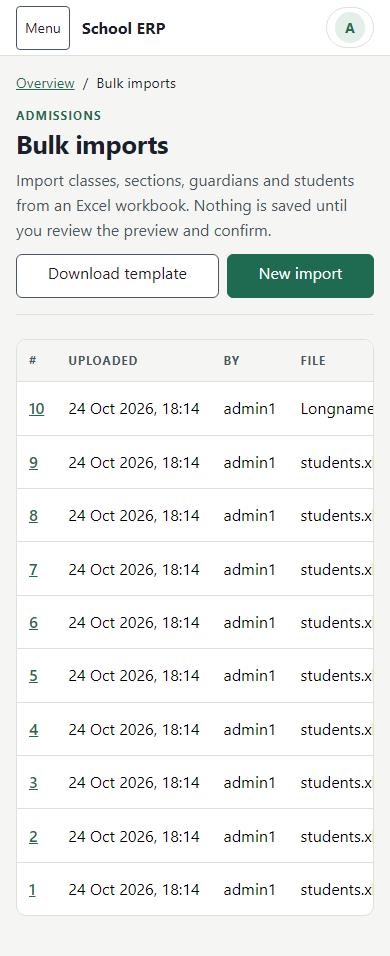
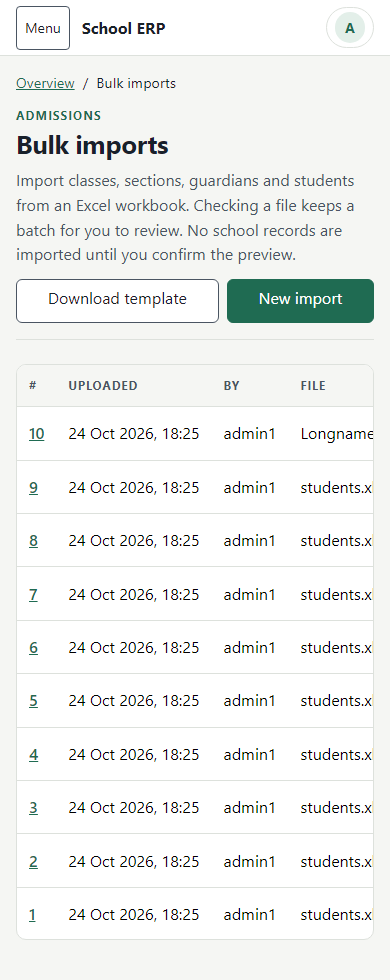
fix(ui): D1-6E accurate upload explanations; record L11
Review correction: the list and upload pages no longer say nothing is saved on upload. Checking a file
keeps an import batch for review; no Student, Guardian, Class or Section records are imported until
confirmation, and a rejected upload imports nothing. Tests assert the wording and its truth. Records the
pre-existing run_import / view_importbatch mismatch as ledger item L11.

diff --git a/core/templates/core/import_upload.html b/core/templates/core/import_upload.html
@@ -1,14 +1,14 @@
 {% extends "base.html" %}
 {% block title %}New import{% endblock %}
 {% block content %}
-{% include "partials/_page_header.html" with eyebrow="Bulk imports" title="New import" purpose="Check an Excel workbook first. Nothing is saved until you review the preview and confirm." only %}
+{% include "partials/_page_header.html" with eyebrow="Bulk imports" title="New import" purpose="Check an Excel workbook first. The check keeps a batch for you to review; no Student, Guardian, Class or Section records are imported until you confirm." only %}
 <form method="post" enctype="multipart/form-data" class="erp-form">
     {% csrf_token %}
-    <p class="erp-note-text">Use the <a href="{% url 'core:import-template' %}">import template</a>. The file is checked first and nothing is saved until you confirm the preview.</p>
+    <p class="erp-note-text">Use the <a href="{% url 'core:import-template' %}">import template</a>. Checking the file creates an import batch for you to review. No Student, Guardian, Class or Section records are imported until you confirm the preview.</p>
     {% include "partials/_form_required_legend.html" %}
     {% include "partials/_form_error_summary.html" with form=form action_text="checking the file" only %}
     {% for field in form %}{% include "partials/_form_field.html" with field=field only %}{% endfor %}
-    <p class="erp-note-text">What happens next: the file is checked and you see a preview with any errors or warnings. A file with errors is rejected and imports nothing. A checked file can be confirmed within 24 hours.</p>
+    <p class="erp-note-text">What happens next: the file is checked and you see a preview with any errors or warnings. A file with errors is rejected: the batch is kept so you can see the problems, and no school records are imported. A checked file can be confirmed within 24 hours.</p>
     <div class="erp-form-actions">
         <button type="submit" class="btn btn-primary">Check file</button>
         {% if perms.core.view_importbatch %}<a class="btn btn-link" href="{% url 'core:import-list' %}">Cancel</a>{% endif %}

diff --git a/core/templates/core/import_list.html b/core/templates/core/import_list.html
@@ -3,9 +3,9 @@
 {% block content %}
 {% if perms.core.run_import %}
 {% url 'core:import-template' as template_url %}{% url 'core:import-upload' as upload_url %}
-{% include "partials/_page_header.html" with eyebrow="Admissions" title="Bulk imports" purpose="Import classes, sections, guardians and students from an Excel workbook. Nothing is saved until you review the preview and confirm." secondary_url=template_url secondary_label="Download template" primary_url=upload_url primary_label="New import" only %}
+{% include "partials/_page_header.html" with eyebrow="Admissions" title="Bulk imports" purpose="Import classes, sections, guardians and students from an Excel workbook. Checking a file keeps a batch for you to review. No school records are imported until you confirm the preview." secondary_url=template_url secondary_label="Download template" primary_url=upload_url primary_label="New import" only %}
 {% else %}
-{% include "partials/_page_header.html" with eyebrow="Admissions" title="Bulk imports" purpose="Import classes, sections, guardians and students from an Excel workbook. Nothing is saved until you review the preview and confirm." only %}
+{% include "partials/_page_header.html" with eyebrow="Admissions" title="Bulk imports" purpose="Import classes, sections, guardians and students from an Excel workbook. Checking a file keeps a batch for you to review. No school records are imported until you confirm the preview." only %}
 {% endif %}
 <div class="erp-panel">
 <div class="erp-table-scroll" role="region" aria-label="Import batches" tabindex="0">

diff --git a/core/tests/test_ui_admin_desktop_d1_6e_bulk_imports.py b/core/tests/test_ui_admin_desktop_d1_6e_bulk_imports.py
@@ -283,6 +283,11 @@ class ListTests(Base):
             '<span class="visually-hidden"> (students.xlsx)</span></a></th>', page)
         self.assertNotIn("No imports yet.", page)
 
+    def test_list_distinguishes_the_review_batch_from_importing_school_records(self):
+        page = html(self.client.get(LIST))
+        self.assertIn("Checking a file keeps a batch for you to review. No school records are imported until you confirm the preview.", page)
+        self.assertNotIn("nothing is saved", page.lower())
+
     def test_view_only_users_get_no_actions(self):
         _, viewer = self.client_with("view_importbatch")
         page = html(viewer.get(LIST))
@@ -316,6 +321,22 @@ class UploadTests(Base):
         page = html(self.upload(b"garbage", name="students.xlsx"))
         self.assertIn("This is not an Excel .xlsx workbook.", page)
         self.assertEqual(ImportBatch.objects.count(), 0)
+
+    def test_upload_explains_that_a_review_batch_is_kept_but_no_school_records_are_imported(self):
+        page = html(self.client.get(UPLOAD))
+        self.assertNotIn("nothing is saved", page.lower())
+        self.assertIn("Checking the file creates an import batch for you to review.", page)
+        self.assertIn("No Student, Guardian, Class or Section records are imported until you confirm the preview.", page)
+        self.assertIn("A file with errors is rejected: the batch is kept so you can see the problems, and no school records are imported.", page)
+        # the statements are true: a valid upload keeps a batch and imports nothing
+        self.upload(workbook([student_row("Asha")]))
+        self.assertEqual(ImportBatch.objects.count(), 1)
+        self.assertEqual((Student.objects.count(), Applicant.objects.count(), Guardian.objects.count()), (0, 0, 0))
+        self.assertFalse(ClassGrade.objects.exclude(name="Class 5").exists())
+        # a rejected upload keeps a batch for review and still imports nothing
+        self.upload(workbook([student_row("Arjun", cls="Nope")]))
+        self.assertEqual(ImportBatch.objects.filter(status=ImportBatch.Status.REJECTED).count(), 1)
+        self.assertEqual(Student.objects.count(), 0)
 
     def test_a_valid_upload_redirects_to_the_preview(self):
         response = self.upload(workbook([student_row("Asha")]))

diff --git a/docs/ui-reviews/ui-d1-6e/README.md b/docs/ui-reviews/ui-d1-6e/README.md
@@ -2,13 +2,13 @@
 
 **Local synthetic evidence only.** Captured with Playwright (Chromium) against a throwaway **SQLite** database seeded with invented data (synthetic Students such as "Clean Student" and "Student 000 Longname…", Guardians "Existing 000" to "Existing 199", a synthetic workbook). Batches were created through the real import service and committed, discarded, expired or failed through the real service calls, so every state is genuine data. No real student or guardian data appears and the database was deleted afterwards. It is not PostgreSQL, staging or production; the automated tests ran on PostgreSQL (see the PR). Nothing was committed from the browser.
 
-Widths: 360, 390, 768, 992, 1024, 1280, 1440 (full-page PNG). Restricted-user states are captured at 390 and 1440.
+Widths: 360, 390, 768, 992, 1024, 1280, 1440 (full-page PNG). Restricted-user states are captured at 390 and 1440. After review, the list and upload screenshots were refreshed at 390 and 1440 only for the corrected explanatory text.
 
 | File prefix | Batch / state | What it shows |
 | --- | --- | --- |
-| `list-empty-*` | no batches | Header with Download template / New import, legacy "No imports yet." and "Start an import" |
+| `list-empty-*` | no batches | Header with Download template / New import (purpose text: checking a file keeps a batch for review and no school records are imported until confirmation), legacy "No imports yet." and "Start an import" |
 | `list-populated-*` | all statuses | Labelled table with a text badge per status (Validated, Rejected, Imported, Discarded, Expired, Failed), `#` as row header |
-| `upload-form-*`, `upload-invalid-file-*` | `/imports/new/` | Shared form chrome, required legend, "what happens next" note; a `.csv` upload shows the error summary linked to the file field |
+| `upload-form-*`, `upload-invalid-file-*` | `/imports/new/` | Shared form chrome, required legend, accurate explanation (checking creates a batch for review; no Student, Guardian, Class or Section records are imported until confirmation; a rejected file keeps its batch and imports nothing), "what happens next" note; a `.csv` upload shows the error summary linked to the file field |
 | `detail-validated-clean-*` | pending, no warnings | Status badge in the header, facts panel, preview counts strip and Students region, Confirm and Discard with consequence text, the 24-hour note |
 | `detail-validated-with-warnings-*` | pending with a warning | Warnings table (severity badge, caption, scopes), CSV link, the required "I have reviewed the warnings." checkbox |
 | `detail-live-errors-confirm-hidden-*` | records changed after the check | The exact "School records changed since this file was checked" notice; **no Confirm**, Discard only |
@@ -35,6 +35,7 @@ Widths: 360, 390, 768, 992, 1024, 1280, 1440 (full-page PNG). Restricted-user st
 ## Known limits
 
 - The browser's own `required` validation bubble is not captured; the invalid state is measured (`checkValidity()` is false).
+- Pre-existing and unchanged (ledger L11, mandatory workflow review before production): a user holding `run_import` without `view_importbatch` is redirected to a 403 after upload, commit or discard.
 - Discard is still the existing unconfirmed POST, with consequence text only (ledger L3).
 - Import detail pagination, search and sorting remain out of scope (ledger L6).
 - A manual screen-reader pass and PostgreSQL staging verification remain open (ledger L8). Nothing is deployed.

diff --git a/docs/ADMIN_DESKTOP_D1_6_COMMUNICATION_OPERATIONS_PLAN.md b/docs/ADMIN_DESKTOP_D1_6_COMMUNICATION_OPERATIONS_PLAN.md
@@ -268,5 +268,6 @@ This ledger is the single place that tracks work deliberately **not** done by th
 | L8 | Manual screen-reader pass and verification against PostgreSQL staging; every UI-D1 gate is **not deployed** | Evidence so far is synthetic SQLite screenshots plus local PostgreSQL tests | A staging verification step before any deployment | **Yes** |
 | L9 | Guardian list search, sort and pagination; shared top-bar overflow at 195 CSS px (200% zoom on phones); sidebar keyboard focus styling | Pre-existing or functional | Separate follow-ups | No |
 | L10 | **Announcement action redirects to a possible 403:** `announcement_create` (confirm), `announcement_prepare` and `announcement_withdraw` redirect to Announcement detail, which needs `view_announcement`; a user holding only `add_announcement`, `send_notification` or `withdraw_announcement` is redirected to a 403 after the action succeeds (pre-existing, same class as L1) | UI gates may not change views or permissions; D1-6B left the redirects as they are | A separate, narrowly scoped functional review and fix with its own tests | **Yes, review before production** |
+| L11 | **Import permission mismatch:** `import_upload`, `import_commit`, `import_discard` and `import_template` need only `run_import`, but upload, commit and discard redirect to Import detail (and the list), which need `view_importbatch`; a user holding `run_import` without `view_importbatch` is sent to a 403 after the action (pre-existing, same class as L1 and L10) | UI gates may not change views, permissions or redirects; D1-6E left them as they are | A mandatory workflow review of the `run_import` / `view_importbatch` pairing, with its own tests | **Yes, mandatory pre-production workflow review** |
 
 Closeouts for D1-6A to D1-6E must restate this ledger and say which rows, if any, changed.
